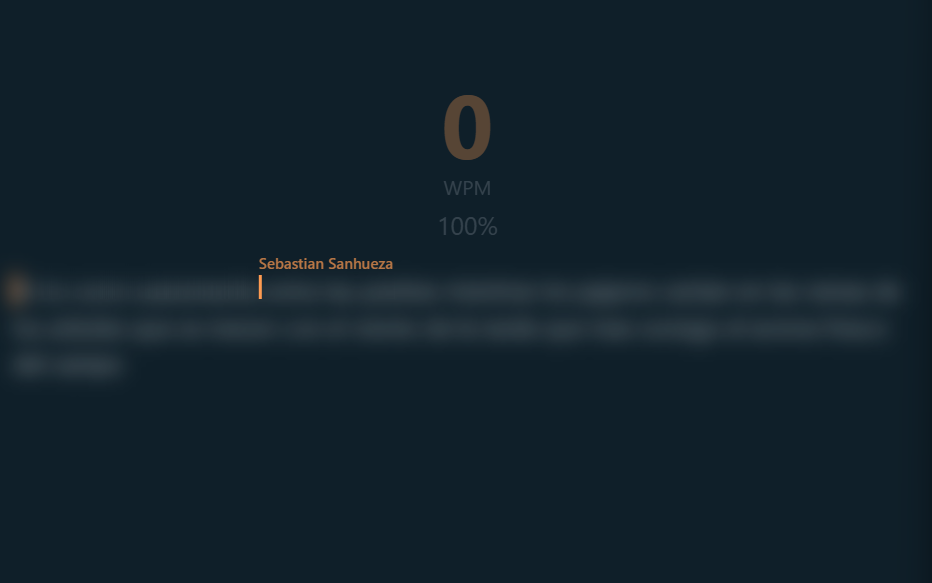
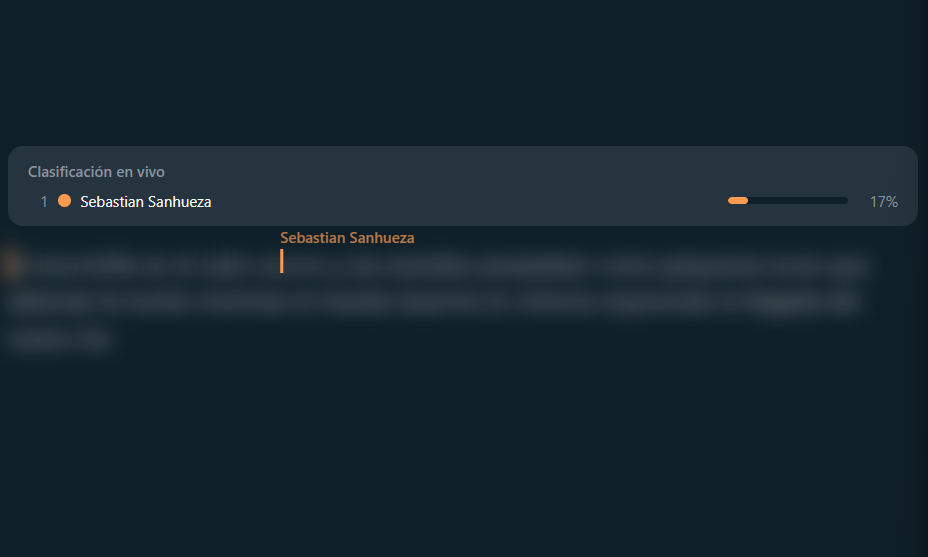
se añade el sprint 3-5

diff --git a/_bmad-output/implementation-artifacts/3-5-bug-fixes-and-ux-polish.md b/_bmad-output/implementation-artifacts/3-5-bug-fixes-and-ux-polish.md
@@ -1,0 +1,302 @@
+# Story 3.5: Bug Fixes & UX Polish
+
+Status: ready-for-dev
+
+## Story
+
+As a player, host, or spectator,
+I want all known bugs to be fixed and UX rough edges to be polished,
+so that the multiplayer typing experience feels reliable, intuitive, and visually refined.
+
+## Context
+
+Created during Epic 3 wrap-up. Seba compiled 18 issues from real user testing sessions documented in `Fix pendientes/a reparar.md`. Issues range from critical functional bugs (focus loss, caret desync, broken redirects) to content fixes (missing ñ/acentos) and visual polish (tenue buttons, missing shadows). Includes one new feature: mid-race transition to spectator mode after finishing.
+
+---
+
+## Acceptance Criteria (BDD)
+
+### AC1: Focus automático en el input al iniciar la carrera
+
+**Given** un jugador en la arena cuando comienza la carrera (countdown termina)
+**When** la carrera se activa
+**Then** el focus está automáticamente en el input/área de texto para poder escribir inmediatamente
+**And** no se requiere ningún click del usuario para empezar a tipear
+
+---
+
+### AC2: Focus se recupera al volver a la pestaña durante competencia
+
+**Given** un jugador en una carrera activa que cambió de pestaña del navegador
+**When** vuelve a la pestaña de UltimaType y hace click en cualquier parte de la página
+**Then** el focus vuelve al input/área de texto inmediatamente
+**And** puede seguir escribiendo sin necesidad de hacer click específicamente en el input
+
+---
+
+### AC3: Solo el host puede iniciar la revancha
+
+**Given** la pantalla de resultados después de una carrera
+**When** un jugador que NO es host ve la pantalla
+**Then** NO ve el botón de revancha (o lo ve deshabilitado)
+**And** solo el host tiene el botón de revancha activo y funcional
+
+---
+
+### AC4: Delay de 5 segundos antes de activar revancha
+
+**Given** la pantalla de resultados que aparece al finalizar la carrera
+**When** aparecen los resultados
+**Then** el botón de revancha está deshabilitado durante los primeros 5 segundos
+**And** después de 5 segundos se activa el botón de revancha
+**And** presionar barra espaciadora u otra tecla durante esos 5 segundos NO activa la revancha
+
+---
+
+### AC5: Sincronización de caret estable con usuarios que escriben rápido
+
+**Given** dos o más jugadores en una carrera activa
+**When** un jugador escribe a velocidad alta (>80 WPM)
+**Then** su caret en las pantallas de los demás jugadores se mantiene sincronizado y actualizado
+**And** NO se congela ni deja de actualizarse permanentemente
+**And** la sincronización se mantiene estable durante toda la carrera independientemente de la velocidad
+
+---
+
+### AC6: Redirección post-login preserva URL de sala compartida
+
+**Given** un usuario no autenticado que abre un link compartido como `/room/7K3T32`
+**When** el sistema le pide login y se logea exitosamente
+**Then** es redirigido a `/room/7K3T32` (la sala original)
+**And** NO es enviado al home
+
+---
+
+### AC7: Jugador que vuelve después de salir se refleja correctamente
+
+**Given** un jugador que salió de la sala (aparece en gris)
+**When** vuelve a la sala y presiona "Listo"
+**Then** su estado visual cambia de gris a activo
+**And** se refleja que entró y está listo para los demás jugadores
+**And** NO permanece en gris a pesar de haber marcado "Listo"
+
+---
+
+### AC8: Espectador ve texto sin blur y métricas actualizadas
+
+**Given** un usuario en modo espectador durante una carrera activa
+**When** la carrera está en progreso
+**Then** el texto NO tiene blur (se muestra legible)
+**And** los carets de los jugadores se mueven correctamente
+**And** el WPM y precisión de los jugadores se actualizan en tiempo real
+
+---
+
+### AC9: Redirección al home cuando el host te saca
+
+**Given** un jugador que fue sacado de la sala por el host
+**When** aparece el mensaje "El host te sacó de la partida" y pasan los 2 segundos
+**Then** el jugador es redirigido al home correctamente
+**And** NO se queda en una pantalla sin redirección
+
+---
+
+### AC10: Textos incluyen la letra ñ
+
+**Given** los textos de tipeo en español de cualquier nivel de dificultad
+**When** corresponden palabras con ñ (año, niño, español, etc.)
+**Then** las palabras incluyen la ñ correctamente
+**And** la ñ se puede tipear y se valida como carácter correcto
+
+---
+
+### AC11: Textos del nivel 3 en adelante incluyen acentos
+
+**Given** los textos de tipeo de dificultad nivel 3 o superior
+**When** corresponden palabras con acentos (á, é, í, ó, ú)
+**Then** las palabras incluyen los acentos correctamente
+**And** los acentos se pueden tipear y se validan como caracteres correctos
+
+---
+
+### AC12: Transición a espectador mid-race tras terminar + texto informativo
+
+**Given** un jugador que terminó de escribir antes que los demás (pantalla de espera)
+**When** ve la pantalla `WaitingForOthersOverlay` con su WPM, precisión y puntaje
+**Then** ve un texto informativo: "Si esperas a los demás verás la pantalla de resultados"
+**And** ve un botón "Ver carrera en vivo" que le permite transicionar a modo espectador
+**And** al presionar el botón, ve el texto sin blur, los carets moviéndose y el `SpectatorLeaderboard` en vivo
+**And** al finalizar la carrera, su posición y puntaje aparecen en el tablero de resultados (ya funciona así en `calculateResults`)
+
+---
+
+### AC13: Botón iniciar muestra "Esperando el listo de los Jugadores"
+
+**Given** el host en el lobby esperando que todos los jugadores marquen "Listo"
+**When** no todos los jugadores están listos
+**Then** el botón de iniciar muestra el texto "Esperando el listo de los Jugadores" (o similar)
+**And** el botón está deshabilitado hasta que todos estén listos
+
+---
+
+### AC14: Botón "Listo" con halo pulsante
+
+**Given** un jugador en el lobby que aún no está listo
+**When** ve el botón "Listo"
+**Then** el botón tiene una animación visual pulsante (pulse/ring) que sugiere que debe ser presionado
+**And** cuando el jugador ya está listo, la animación se detiene
+
+**Nota:** Verificar si esto ya fue implementado en story 3-2 AC5. Si ya existe, marcar como done. Si la implementación se perdió o no está funcionando, reimplementar.
+
+---
+
+### AC15: Pantalla de resultados con sombra para separarse del fondo
+
+**Given** la pantalla de resultados (después de salir o mientras espero a los demás)
+**When** se muestra sobre el fondo de la arena
+**Then** tiene una sombra o borde visual que la separa claramente del fondo
+**And** NO se ve "toda junta" con el fondo por tener el mismo color
+
+---
+
+### AC16: Nombre sobre caret se reposiciona al llegar al borde de pantalla
+
+**Given** un jugador cuyo caret está cerca del borde derecho de la pantalla
+**When** el nombre/label sobre el caret llegaría a salirse del viewport
+**Then** el nombre se reposiciona al otro lado del caret (izquierda en vez de derecha, o debajo en vez de arriba)
+**And** NO aparece la barra de scroll horizontal
+**And** NO parpadea la UI por el reposicionamiento constante
+
+---
+
+### AC17: Botón "salir" con contraste adecuado
+
+**Given** cualquier pantalla donde aparece el botón "salir" durante la arena/carrera
+**When** el jugador busca la opción de salir
+**Then** el botón tiene suficiente contraste/opacidad para ser visible sin esfuerzo
+**And** mantiene un estilo discreto pero legible (no debe competir con el área de tipeo, pero tampoco ser invisible)
+
+---
+
+### AC18: Puntaje WPM y precisión con contraste adecuado
+
+**Given** la pantalla de carrera/arena donde se muestran WPM y precisión
+**When** el jugador mira sus métricas durante o después de la carrera
+**Then** los valores de WPM y precisión tienen suficiente contraste/opacidad para ser claramente legibles
+**And** NO se ven "tenues" o difíciles de leer
+
+---
+
+## Tasks / Subtasks
+
+### Task 1: Focus management — (AC: 1, 2)
+
+- [ ] 1.1 **`apps/web/src/components/arena/live-text-canvas.tsx`** — Asegurar que al iniciar la carrera (cuando `matchStatus` cambia a `playing`), se haga `focus()` automático en el input/textarea hidden.
+
+- [ ] 1.2 **`apps/web/src/components/arena/arena-page.tsx`** — Agregar event listener de `visibilitychange` y/o `focus` en el window: cuando la página recupera el foco durante una carrera activa, forzar `focus()` en el input. También capturar clicks en el contenedor principal para refocus.
+
+### Task 2: Revancha — control de host y delay (AC: 3, 4)
+
+- [ ] 2.1 **`apps/web/src/components/arena/match-results-overlay.tsx`** — Condicionar el botón de revancha: solo visible/activo si `isHost === true`. Para no-hosts, ocultar o mostrar deshabilitado con texto "Esperando revancha del host".
+
+- [ ] 2.2 **`apps/web/src/components/arena/match-results-overlay.tsx`** — Agregar timer de 5 segundos: el botón de revancha se muestra disabled durante 5s post-render, con un countdown visual. Después de 5s, se habilita. Ignorar teclas (spacebar, enter) durante el periodo de bloqueo.
+
+### Task 3: Sincronización de caret a alta velocidad (AC: 5)
+
+- [ ] 3.1 **`apps/web/src/components/arena/multiplayer-caret.tsx`** — Investigar throttle del `CARET_SYNC` event. Si el throttle en el emisor (`live-text-canvas.tsx`) es >40ms, considerar reducirlo. Si el problema es en el receptor, verificar que `requestAnimationFrame` o el spring animation no esté dropeando updates cuando llegan muy rápido.
+
+- [ ] 3.2 **`apps/api/src/gateway/game.gateway.ts`** — Revisar si el broadcast de `CARET_SYNC` tiene un throttle server-side que podría estar dropeando posiciones intermedias. Si existe, relajar el throttle para usuarios rápidos o implementar "last-write-wins" garantizado.
+
+### Task 4: Redirección post-login a sala (AC: 6)
+
+- [ ] 4.1 **`apps/web/src/components/auth/protected-route.tsx`** — Guardar `window.location.pathname + window.location.search` en `sessionStorage` key `redirectAfterLogin` antes de redirigir al login.
+
+- [ ] 4.2 **`apps/web/src/components/auth/auth-callback.tsx`** — Después del token exchange exitoso, leer `redirectAfterLogin` de `sessionStorage`, borrarlo, y navegar a esa URL (fallback a `/`).
+
+**Nota:** Verificar si esto ya fue implementado en story 2-8 AC3. Si ya existe y funciona, marcar como done. Si no funciona, investigar por qué y reparar.
+
+### Task 5: Jugador que vuelve después de salir (AC: 7)
+
+- [ ] 5.1 **`apps/api/src/gateway/game.gateway.ts`** — Verificar que cuando un jugador rejoin a una sala de la que salió, su estado se resetee correctamente (no `disconnected`, no gris). El `LOBBY_JOIN` handler debe limpiar flags de desconexión.
+
+- [ ] 5.2 **`apps/web/src/components/lobby/player-avatar-pill.tsx`** — Verificar que el componente reaccione al cambio de estado del jugador que volvió: si `disconnected` cambia de `true` a `false`, el estilo visual debe actualizarse inmediatamente.
+
+### Task 6: Espectador — blur y métricas (AC: 8)
+
+- [ ] 6.1 **`apps/web/src/components/arena/arena-page.tsx`** — Verificar que cuando `isSpectator === true` y `matchStatus === 'playing'`, el texto NO tenga la clase de blur. Revisar la condición que aplica el blur.
+
+- [ ] 6.2 **`apps/web/src/components/arena/spectator-leaderboard.tsx`** — Verificar que WPM y precisión se actualicen con cada `CARET_SYNC` o `PLAYER_FINISH` event. Si el store no guarda WPM/precisión por jugador, agregar el tracking.
+
+### Task 7: Redirección al home al ser sacado por host (AC: 9)
+
+- [ ] 7.1 **`apps/web/src/hooks/use-arena.ts`** o **`use-lobby.ts`** — Verificar el handler del evento `PLAYER_KICKED`. Debe tener un `setTimeout(() => navigate('/'), 2000)` o similar. Si el navigate no está funcionando, investigar si el componente se desmontó antes del timeout o si el router no está disponible.
+
+### Task 8: Contenido — ñ y acentos en textos (AC: 10, 11)
+
+- [ ] 8.1 **`prisma/seed.ts`** o archivos de textos/fixtures — Revisar los textos de tipeo en español. Agregar ñ a todas las palabras que la requieran (año, niño, español, señor, pequeño, etc.).
+
+- [ ] 8.2 **Mismos archivos de textos** — Para nivel 3+, agregar acentos (á, é, í, ó, ú) a las palabras que los requieran. Verificar que el input valide estos caracteres correctamente.
+
+- [ ] 8.3 **`apps/web/src/components/arena/live-text-canvas.tsx`** — Verificar que el matching de caracteres soporte ñ y vocales acentuadas. Si usa comparación simple (`===`), debería funcionar. Si normaliza strings, verificar que no elimine diacríticos.
+
+### Task 9: Transición a espectador mid-race (AC: 12)
+
+- [ ] 9.1 **`apps/web/src/components/arena/waiting-for-others-overlay.tsx`** — Agregar texto "Si esperas a los demás verás la pantalla de resultados" y un botón "👁 Ver carrera en vivo".
+
+- [ ] 9.2 **`apps/web/src/stores/arena-store.ts`** — Agregar action `switchToSpectatorView()` que setee un flag `viewingAsSpectator: true` sin emitir socket events (el jugador ya terminó, solo cambia la vista local).
+
+- [ ] 9.3 **`apps/web/src/components/arena/arena-page.tsx`** — Cuando `localFinished && viewingAsSpectator`, renderizar la vista de espectador (texto sin blur + `SpectatorLeaderboard`) en lugar del `WaitingForOthersOverlay`.
+
+### Task 10: Textos UX — botón iniciar (AC: 13)
+
+- [ ] 10.1 **`apps/web/src/components/lobby/lobby-page.tsx`** — Cambiar el texto del botón de iniciar: cuando no todos están listos, mostrar "Esperando el listo de los Jugadores" (disabled). Cuando todos están listos, mostrar "Iniciar Partida" (enabled, solo para host).
+
+### Task 11: Visual polish — halo, sombra, caret label, contraste (AC: 14, 15, 16, 17, 18)
+
+- [ ] 11.1 **Botón "Listo" halo pulsante** — Verificar si ya se implementó en story 3-2 (AC5). Si existe y funciona, skip. Si no, agregar `animate-pulse` + `ring` classes al botón cuando `!isReady`.
+
+- [ ] 11.2 **`apps/web/src/components/arena/match-results-overlay.tsx`** — Agregar `shadow-2xl` o `shadow-lg` y/o un borde sutil al contenedor principal de resultados para separarlo del fondo.
+
+- [ ] 11.3 **`apps/web/src/components/arena/multiplayer-caret.tsx`** — Detectar si el label del nombre del jugador está cerca del borde derecho del viewport. Si el label se saldría del viewport, posicionarlo a la izquierda del caret en lugar de a la derecha. Usar `getBoundingClientRect()` + `window.innerWidth` para la detección.
+
+- [ ] 11.4 **`apps/web/src/components/arena/arena-page.tsx`** — Aumentar opacidad/contraste del botón "salir" durante la carrera. Cambiar de `text-text-muted/30` (o similar) a al menos `text-text-muted/60`.
+
+- [ ] 11.5 **`apps/web/src/components/arena/arena-page.tsx`** o componente de métricas — Aumentar opacidad/contraste del WPM y precisión. Asegurar que usen al menos `text-text-muted` sin opacidad reducida adicional.
+
+---
+
+## Dev Notes
+
+### Verificaciones previas a implementación
+- **AC6 (redirect post-login):** Verificar si story 2-8 AC3 ya lo resolvió. Si funciona, marcar done.
+- **AC14 (halo pulsante):** Verificar si story 3-2 AC5 ya lo resolvió. Si funciona, marcar done.
+- **AC5 (caret sync):** Este es el bug más complejo. El throttle actual es 40ms (25 events/sec). El problema puede ser client-side (spring animation dropeando frames), server-side (broadcast throttle), o ambos. Requiere debugging con 2+ usuarios reales.
+
+### Archivos a modificar (estimación)
+- `apps/web/src/components/arena/live-text-canvas.tsx`
+- `apps/web/src/components/arena/arena-page.tsx`
+- `apps/web/src/components/arena/match-results-overlay.tsx`
+- `apps/web/src/components/arena/multiplayer-caret.tsx`
+- `apps/web/src/components/arena/waiting-for-others-overlay.tsx`
+- `apps/web/src/components/arena/spectator-leaderboard.tsx`
+- `apps/web/src/components/lobby/lobby-page.tsx`
+- `apps/web/src/components/auth/protected-route.tsx`
+- `apps/web/src/components/auth/auth-callback.tsx`
+- `apps/web/src/stores/arena-store.ts`
+- `apps/web/src/hooks/use-arena.ts` o `use-lobby.ts`
+- `apps/api/src/gateway/game.gateway.ts`
+- `prisma/seed.ts` o archivos de textos
+
+### Prioridad de implementación sugerida
+1. **Primero:** AC1-2 (focus), AC6 (redirect), AC9 (kick redirect) — fixes rápidos, alto impacto
+2. **Segundo:** AC3-4 (revancha), AC7 (rejoin gris), AC8 (spectator blur), AC10-11 (contenido)
+3. **Tercero:** AC5 (caret sync rápido) — requiere más investigación
+4. **Cuarto:** AC12 (spectator mid-race) — feature nueva
+5. **Último:** AC13-18 (UX copy + visual polish) — cambios cosméticos
+
+### References
+- `Fix pendientes/a reparar.md` — Lista original de bugs reportados por Seba
+- Story 2-8: Functional Validation Fixes — AC3 ya abordó redirect post-login
+- Story 3-2: Lobby, Race & Host Controls Fixes — AC5 ya abordó halo pulsante
+- Story 3-3: Live Spectator View — Lógica de blur/spectator
+- Story 3-4: Spectator to Player Transition — Lógica de role switching

diff --git a/Fix pendientes/a reparar.md b/Fix pendientes/a reparar.md
@@ -1,8 +1,28 @@
-- Que al iniciar el focus esté en el input para poder escribir
+## Si están
+
+- Que al iniciar el focus esté en el input para poder escribir inmediatamente
 - Fuí a otra pestaña mientras jugaba, al volver a esta toque fuera del texto y no escribia, lo que espero es que al volver a la página mientras estamos compitiendo, el focus se ponga inmeditamente en el texto, cosa de hacer click en la página y que pueda escribir, todo esto es mientras estoy en competencia
-- que la revancha solo la pueda iniciar el host
-- el botín listo tiene que tener un halo pulsante para que den ganas de presionarlo, ahora solo baja la opacidad y pasa desapercibido
-- la pantalla de resultados debe verse por encima del fondo, al tener el mismo color, se ve toda junta, debiese tener una sombra para que la separe del fondo
+- Que la revancha solo la pueda iniciar el host
+- El botón listo tiene que tener un halo pulsante para que den ganas de presionarlo, ahora solo baja la opacidad y pasa desapercibido
+- La pantalla de resultados, de cuando dí salir, o de cuando estoy esperando a los demás jugadores, debe verse por encima del fondo, al tener el mismo color, se ve toda junta, debiese tener una sombra para que la separe del fondo
+- Apareció la pantalla de resultados mientras escribía y apreté la barra espaciadora e instantaneamente pasamos a revancha, no debe ser así, debe darles tiempo a los usuarios de ver los resultados, unos 5 segundos después de que aparezcan los resultados y ahí se activa el botón de revancha, y luego iniciar la revancha
 - Cuando escribe muy rapido un usuario y el caret avanza rapido, en los demás usuarios no actualiza, cuando va lento si se sincroniza todo bien, pero empieza a andar rapido y se pierde la sincronización
 - A los textos que corresponda le faltan las ñ, es una letra como cualquier otra en español
 - Del nivel 3 en adelante faltan los acentos a las palabras
+- Me comparten un link http://localhost:4200/room/7K3T32, me pide login y me logeo y me envía al home. Cuando debiese después de logearme enviarme a la sala, en este caso a la sala 7K3T32
+- Al salir se marca correctamente que salí, me coloca en gris, pero si vuelvo, sigo en gris y apezar de marcar Listo, no se refleja que entré y que estoy listo, que volví al juego
+  ![imagen del error](/Fix%20pendientes/al%20salir%20se%20marca%20correctamente%20que%20salí,%20pero%20si%20vuelvo,%20sigo%20en%20gris%20y%20apezar%20de%20marcar%20Listo,%20no%20se%20refleja%20que%20entré%20y%20que%20estoy%20listo,%20que%20volví%20al%20juego.png)
+- Como espectador, al texto nunca se le quita el blur, solo veo el caret moverse y el wpm y precisión no se actualizan
+  ![imagen del error](/Fix%20pendientes/como%20espectador,%20al%20texto%20nunca%20se%20le%20quita%20el%20blur,%20solo%20veo%20el%20caret%20moverse%20y%20el%20wpm%20y%20precisión%20no%20se%20actualizan.png)
+- Cuando el host te saca, pasan los 2 segundo y no me redirige al home
+  ![imagen del error](/Fix%20pendientes/Cuando%20el%20host%20te%20saca,%20pasan%20los%202%20segundo%20y%20no%20me%20redirige%20al%20home.png)
+- Cuando escribe muy rápido un usuario y el caret avanza rápido, en los demás usuarios no actualiza y se traba, de ahí no vuelve a sincronizarse; cuando va lento si se sincroniza y avanza, todo bien; pero con los usuarios que escriben rápido, no se actualiza y se traba, no se sincroniza más
+  ![imagen del error](/Fix%20pendientes/Cuando%20escribe%20muy%20rapido%20un%20usuario%20y%20el%20caret%20avanza%20rapido,%20en%20los%20demás%20usuarios%20no%20actualiza,%20cuando%20va%20lento%20si%20se%20sincroniza%20todo%20bien.png)
+- Falta un texto, "sí esperas a los demás verás la pantalla de resultados", o la opción de pasar a espectador y poder ver como espectador la carrera. ¿Al finalizar igual se muestran mi posición en el tablero hasta el puntaje que obtuve?
+  ![imagen del error](/Fix%20pendientes/falta%20un%20texto,%20sí%20esperas%20a%20los%20demás%20verás%20la%20pantalla%20de%20resultados.png)
+- Mientras se espera confirmación el botón iniciar debiese decir "Esperando el listo de los Jugadores" o algo así
+  ![imagen del error](/Fix%20pendientes/mientras%20se%20espera%20confirmación%20el%20botón%20iniciar%20debiese%20decir%20Esperando%20listo%20de%20Jugadores%20o%20algo%20así.png)
+- Que el nombre sobre el caret cuando esté en el borde de la pantalla, se cambie de lugar, sino empieza a fallar la UI puesto que aparece la barra para deslizar y parpadea puesto que el Caret del jugador se mueve
+  ![imagen del error](/Fix%20pendientes/que%20el%20nombre%20del%20caret%20esté%20al%20otro%20lado%20al%20llegar%20al%20borde,%20sino%20empeza%20a%20fallar%20puesto%20que%20aparece%20la%20barra%20para%20deslizar%20y%20parpadea%20puesto%20que%20se%20mueve%20el%20jugador.png)
+- El botón "salir" está muy tenue
+- El puntaje wpm y la precisión se ven muy tenues

diff --git a/CLAUDE.md b/CLAUDE.md
@@ -106,3 +106,7 @@ Copy `.env.example` to `.env` and fill in OAuth credentials and secrets. Require
 ## Skill bmad
 
 - Every time the user asks for a skill that starts with BMAD-\*, look for that skill in the .agent folder
+
+## Party Mode
+
+- When the user requests a party mode, you have to find out how to activate it; that's in the @.agent skills.
